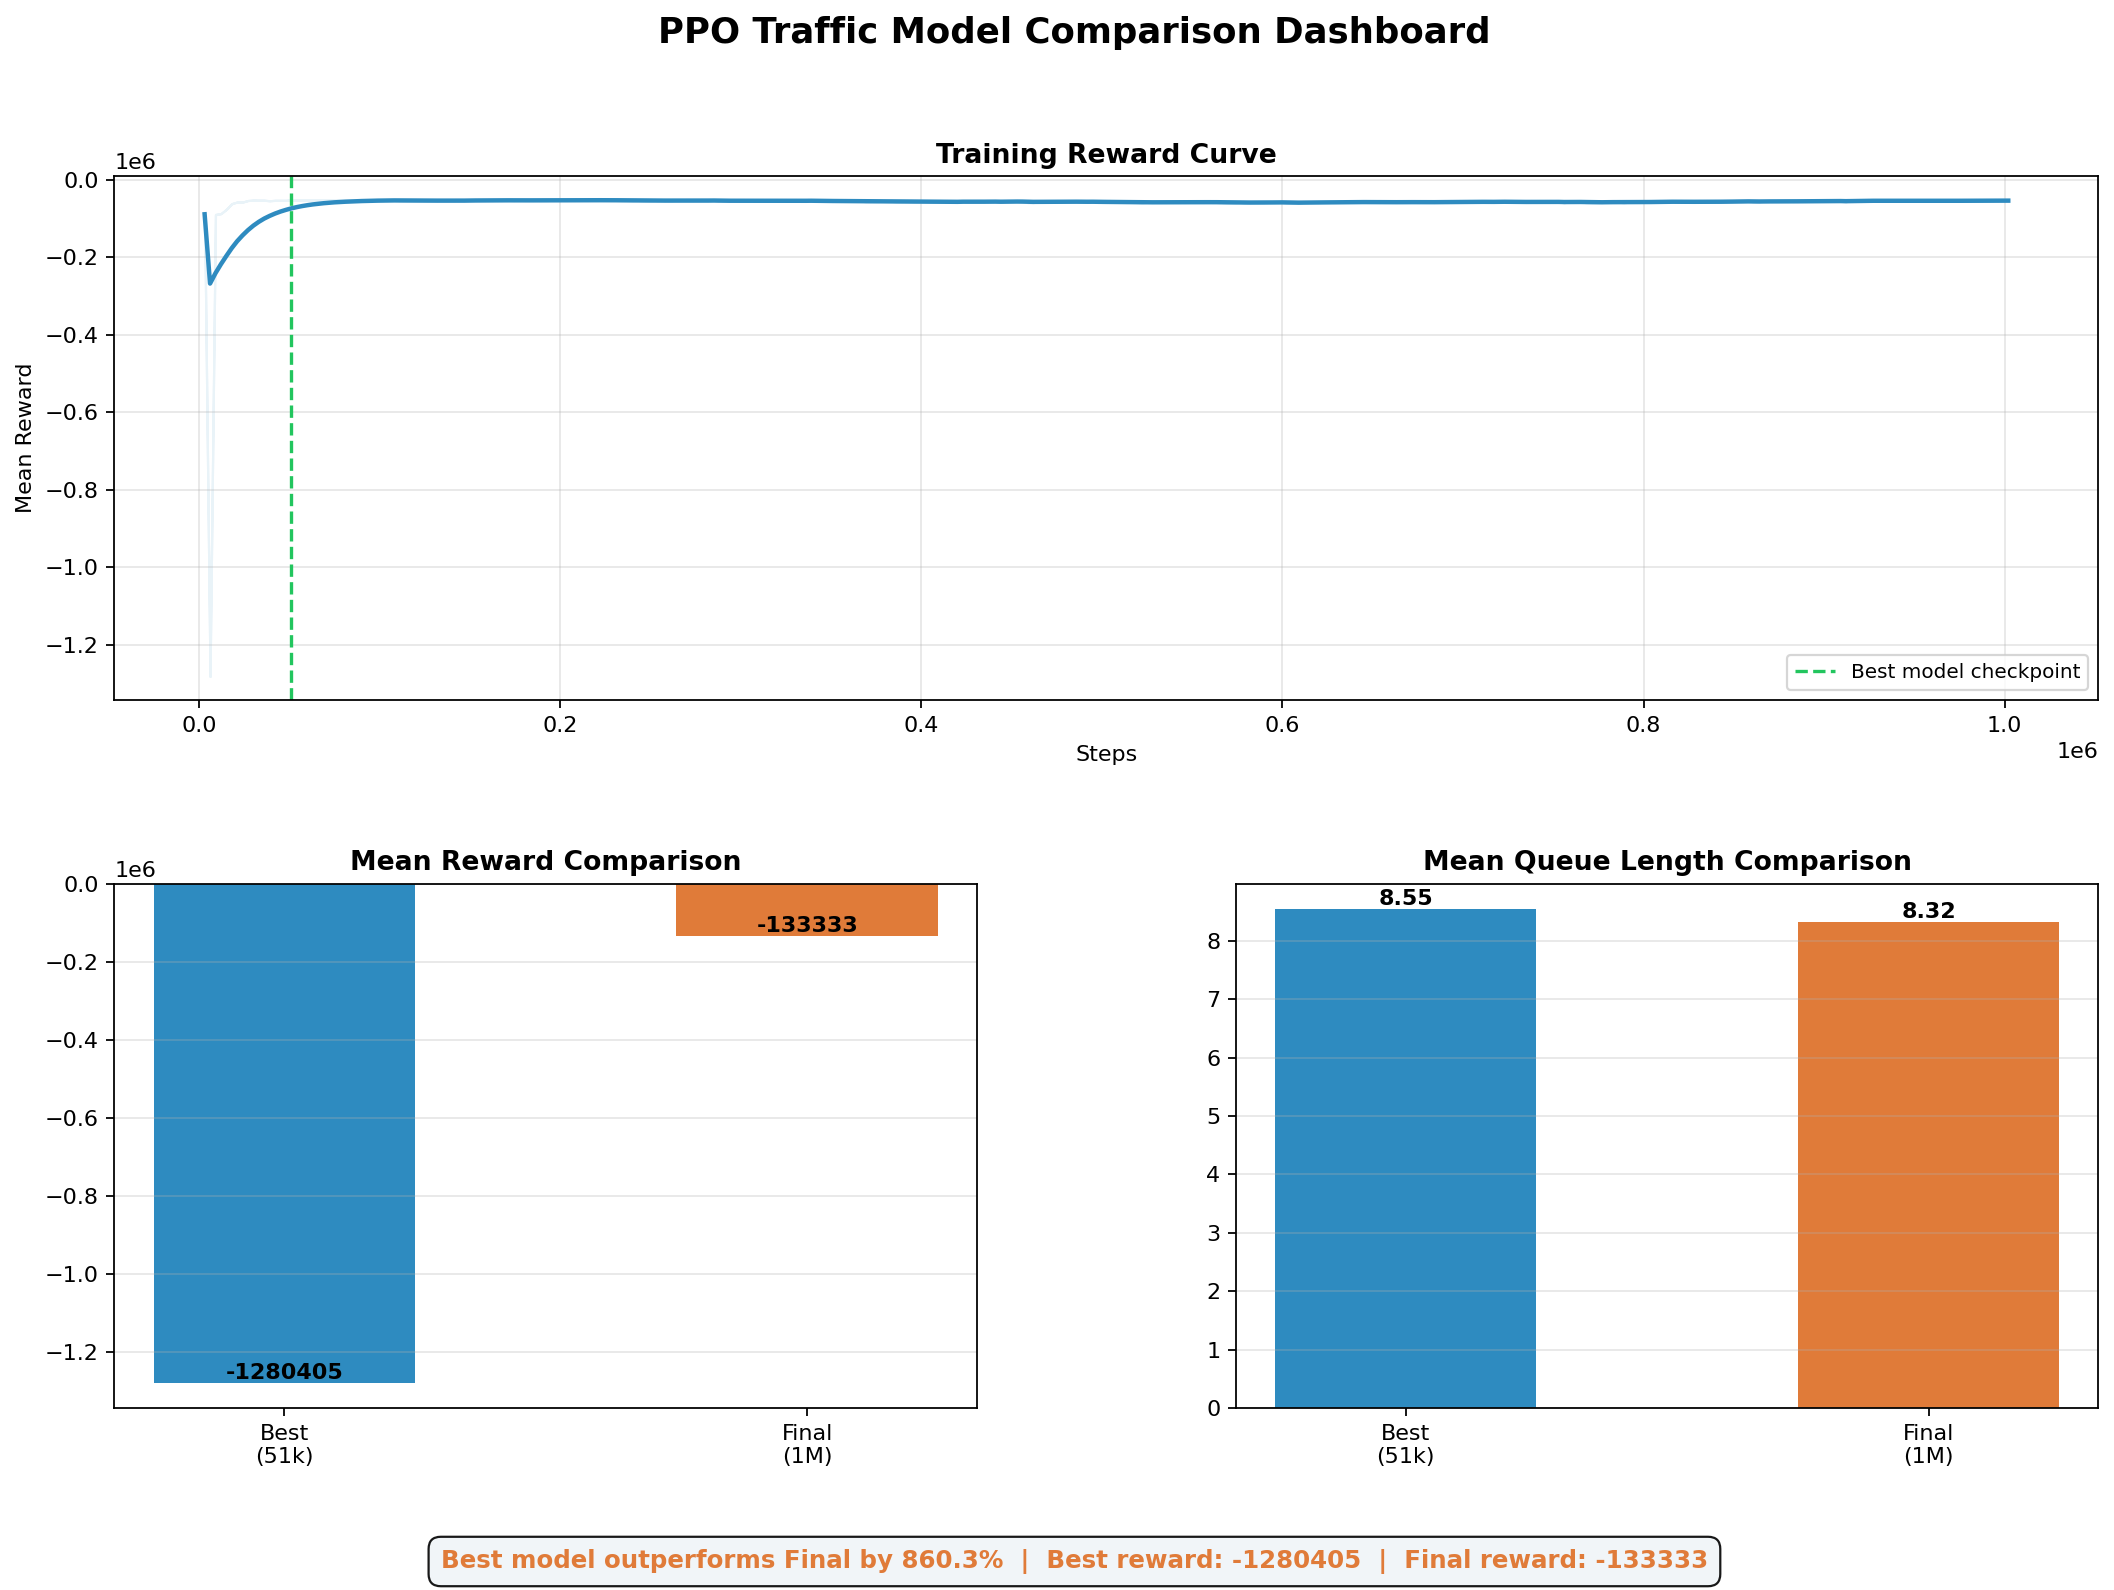
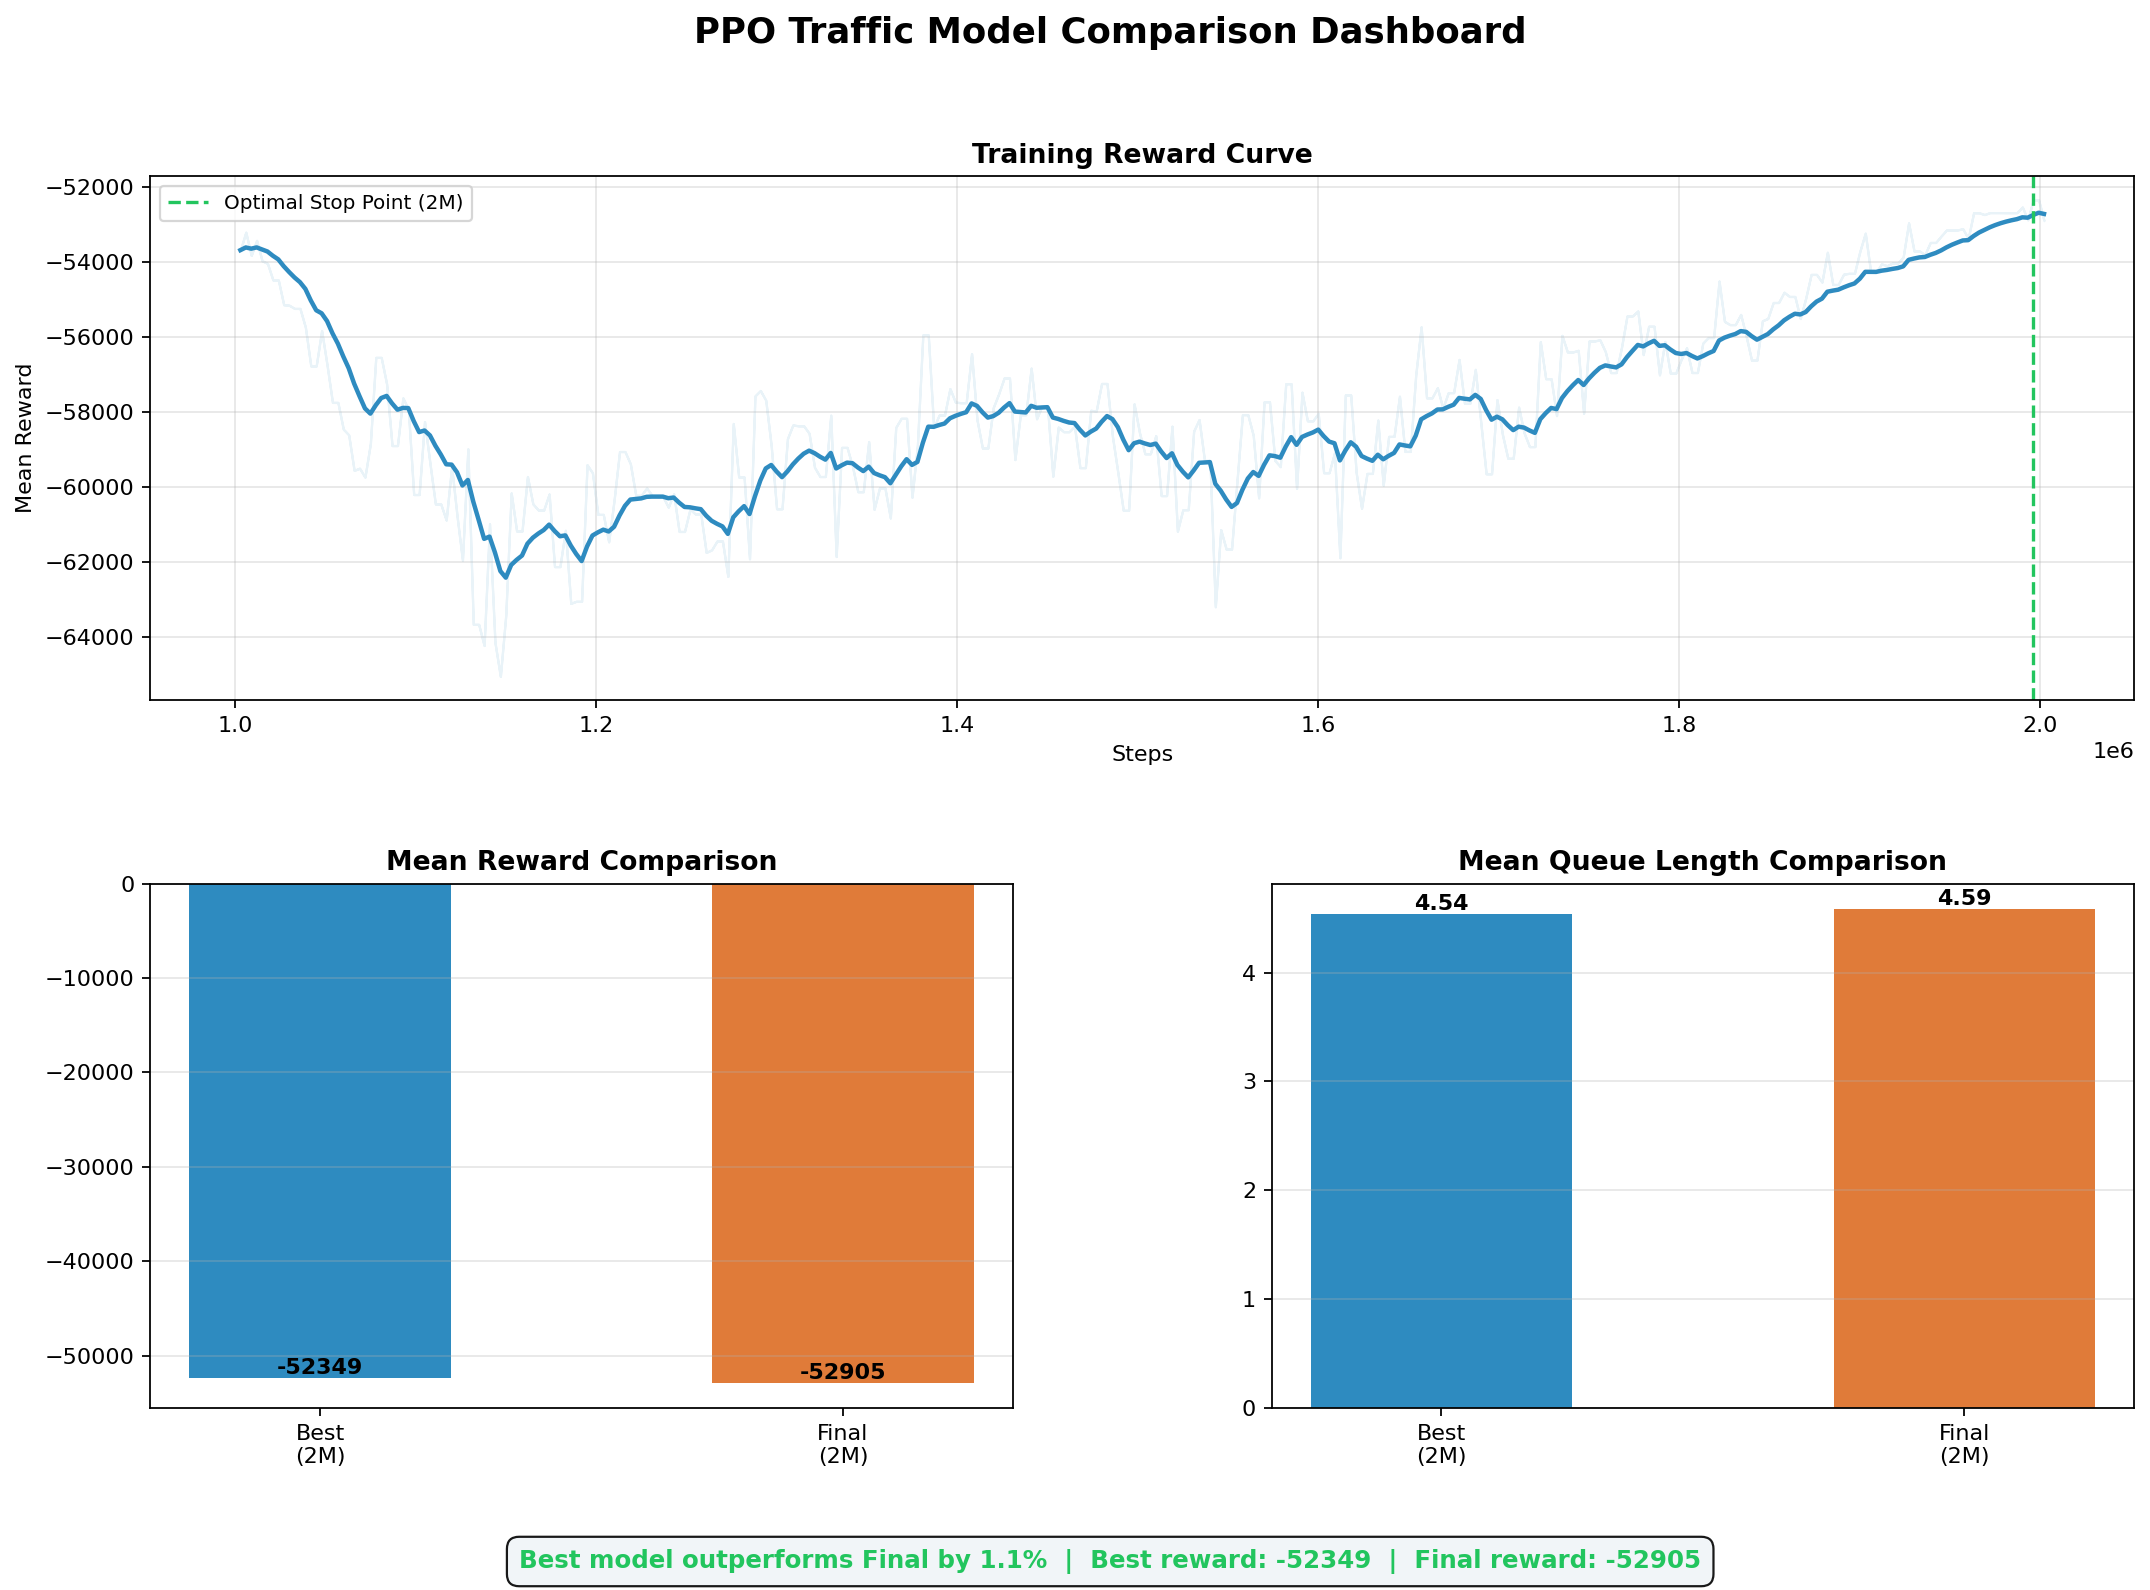
plot results for 2mil

diff --git a/sumo_test/plot_results.py b/sumo_test/plot_results.py
@@ -26,7 +26,7 @@ import matplotlib.gridspec as gridspec
 # Paths
 # ─────────────────────────────────────────────────────────────────────────────
 BASE_DIR    = os.path.dirname(os.path.abspath(__file__))
-FINAL_MODEL = os.path.join(BASE_DIR, "logs", "checkpoints", "ppo_traffic_1000000_steps.zip")
+FINAL_MODEL = os.path.join(BASE_DIR, "logs", "checkpoints", "ppo_traffic_2000000_steps.zip")
 BEST_MODEL  = os.path.join(BASE_DIR, "logs", "best_model", "best_model.zip")
 EVAL_NPZ    = os.path.join(BASE_DIR, "logs", "evaluations.npz")
 VEC_NORM    = os.path.join(BASE_DIR, "vec_normalize.pkl")
@@ -47,11 +47,21 @@ def smooth(values, weight=0.85):
         smoothed.append(last)
     return np.array(smoothed)
 
+def fmt_ts(ts):
+    if ts is None: return "??"
+    if ts >= 1000000: return f"{ts/1000000:.1f}M".replace(".0M", "M")
+    if ts >= 1000: return f"{ts/1000:.0f}k"
+    return str(ts)
+
 
 # ═════════════════════════════════════════════════════════════════════════════
 # PART 1: Training curve from evaluations.npz
 # ═════════════════════════════════════════════════════════════════════════════
 print("\n[1/3] Plotting training reward curve ...")
+best_ts = None
+final_ts = None
+best_val = None
+
 if os.path.isfile(EVAL_NPZ):
     data      = np.load(EVAL_NPZ)
     timesteps = data["timesteps"]
@@ -60,6 +70,7 @@ if os.path.isfile(EVAL_NPZ):
     std_rew   = results.std(axis=1)
     best_idx  = int(np.argmax(mean_rew))
     best_ts   = timesteps[best_idx]
+    final_ts  = timesteps[-1]
     best_val  = mean_rew[best_idx]
 
     fig, ax = plt.subplots(figsize=(12, 5))
@@ -71,9 +82,9 @@ if os.path.isfile(EVAL_NPZ):
 
     # Best checkpoint marker
     ax.axvline(best_ts, color=COLORS["green"], linestyle="--", linewidth=1.5,
-               label=f"Best model @ step {best_ts:,}")
+               label=f"Optimal Stop Point @ step {best_ts:,}")
     ax.scatter([best_ts], [best_val], color=COLORS["green"], s=80, zorder=5)
-    ax.annotate(f"Best: {best_val:.0f}\n@ step {best_ts:,}",
+    ax.annotate(f"Optimal Stop:\n{best_val:.0f} @ step {best_ts:,}",
                 xy=(best_ts, best_val), xytext=(15, 15),
                 textcoords="offset points", fontsize=9, fontweight="bold",
                 color=COLORS["green"],
@@ -102,8 +113,6 @@ if os.path.isfile(EVAL_NPZ):
     print(f"  Saved: {out}")
 else:
     print("  [SKIP] evaluations.npz not found")
-    best_ts = None
-    best_val = None
 
 
 # ═════════════════════════════════════════════════════════════════════════════
@@ -139,8 +148,17 @@ else:
 
         for ep in range(n_episodes):
             port = random.randint(10000, 19999)
-            env = SumoEnv(gui=False, max_steps=3600, port=port)
-            obs, _ = env.reset()
+            inner_env = SumoEnv(gui=False, max_steps=3600, port=port)
+            env = DummyVecEnv([lambda: Monitor(inner_env)])
+            
+            if os.path.exists(VEC_NORM):
+                env = VecNormalize.load(VEC_NORM, env)
+                env.training = False
+                env.norm_reward = False
+            else:
+                print("      [WARNING] vec_normalize.pkl not found. Results will be inaccurate.")
+
+            obs = env.reset()
 
             ep_reward = 0
             ep_queues = []
@@ -150,14 +168,17 @@ else:
 
             while not done:
                 action, _ = model.predict(obs, deterministic=True)
-                obs, reward, terminated, truncated, info = env.step(action)
-                done = terminated or truncated
-                ep_reward += reward
+                obs, reward, done_arr, info = env.step(action)
+                done = done_arr[0]
+                ep_reward += float(reward[0])
+
+                # Get unnormalized observation directly from the inner environment
+                raw_obs = inner_env._get_obs()
 
                 # Collect queue lengths from observation (indices 0-3)
-                ep_queues.append(obs[0:4].mean())
+                ep_queues.append(raw_obs[0:4].mean())
                 # Collect density from observation (indices 4-7)
-                ep_waits.append(obs[4:8].mean())
+                ep_waits.append(raw_obs[4:8].mean())
                 step += 1
 
             all_rewards.append(ep_reward)
@@ -209,9 +230,10 @@ if sim_results and len(sim_results) == 2:
 
     for ax, (key, title, hint) in zip(axes, metrics):
         vals = [best_r[key], final_r[key]]
-        bars = ax.bar(["Best\n(step 51k)", "Final\n(step 1M)"],
+        bars = ax.bar([f"Best\n(step {fmt_ts(best_ts)})", f"Final\n(step {fmt_ts(final_ts)})"],
                       vals, color=[COLORS["best"], COLORS["final"]],
                       width=0.5, edgecolor="white", linewidth=1.5)
+
 
         # Value labels on bars
         for bar, v in zip(bars, vals):
@@ -275,9 +297,11 @@ if sim_results and len(sim_results) == 2:
         ax1.fill_between(ts, mr - data["results"].std(axis=1),
                          mr + data["results"].std(axis=1),
                          color=COLORS["best"], alpha=0.1)
-        ax1.axvline(51000, color=COLORS["green"], linestyle="--", linewidth=1.5,
-                    label="Best model checkpoint")
+        if best_ts is not None:
+            ax1.axvline(best_ts, color=COLORS["green"], linestyle="--", linewidth=1.5,
+                        label=f"Optimal Stop Point ({fmt_ts(best_ts)})")
         ax1.set_title("Training Reward Curve", fontsize=12, fontweight="bold")
+
         ax1.set_xlabel("Steps")
         ax1.set_ylabel("Mean Reward")
         ax1.legend(fontsize=9)
@@ -286,7 +310,7 @@ if sim_results and len(sim_results) == 2:
     # Panel 2: Bar comparison
     ax2 = fig.add_subplot(gs[1, 0])
     vals = [best_r["mean_reward"], final_r["mean_reward"]]
-    bars = ax2.bar(["Best\n(51k)", "Final\n(1M)"], vals,
+    bars = ax2.bar([f"Best\n({fmt_ts(best_ts)})", f"Final\n({fmt_ts(final_ts)})"], vals,
                    color=[COLORS["best"], COLORS["final"]], width=0.5)
     for bar, v in zip(bars, vals):
         ax2.text(bar.get_x() + bar.get_width()/2, bar.get_height(),
@@ -297,7 +321,7 @@ if sim_results and len(sim_results) == 2:
     # Panel 3: Queue comparison
     ax3 = fig.add_subplot(gs[1, 1])
     vals_q = [best_r["mean_queue"], final_r["mean_queue"]]
-    bars_q = ax3.bar(["Best\n(51k)", "Final\n(1M)"], vals_q,
+    bars_q = ax3.bar([f"Best\n({fmt_ts(best_ts)})", f"Final\n({fmt_ts(final_ts)})"], vals_q,
                      color=[COLORS["best"], COLORS["final"]], width=0.5)
     for bar, v in zip(bars_q, vals_q):
         ax3.text(bar.get_x() + bar.get_width()/2, bar.get_height(),

diff --git a/app.py b/app.py
@@ -117,7 +117,7 @@ class TrafficLightSystem:
 
     def load_brain(self):
         print("🧠 Attempting to load AI Brain...")
-        model_path = os.path.join("sumo_test", "logs", "checkpoints", "ppo_traffic_1000000_steps.zip")
+        model_path = os.path.join("sumo_test", "logs", "checkpoints", "ppo_traffic_2000000_steps.zip")
         norm_path = os.path.join("sumo_test", "vec_normalize.pkl")
         if not os.path.exists(norm_path) or not os.path.exists(model_path):
             print("⚠  FILES MISSING. Using Logic Fallback.")
